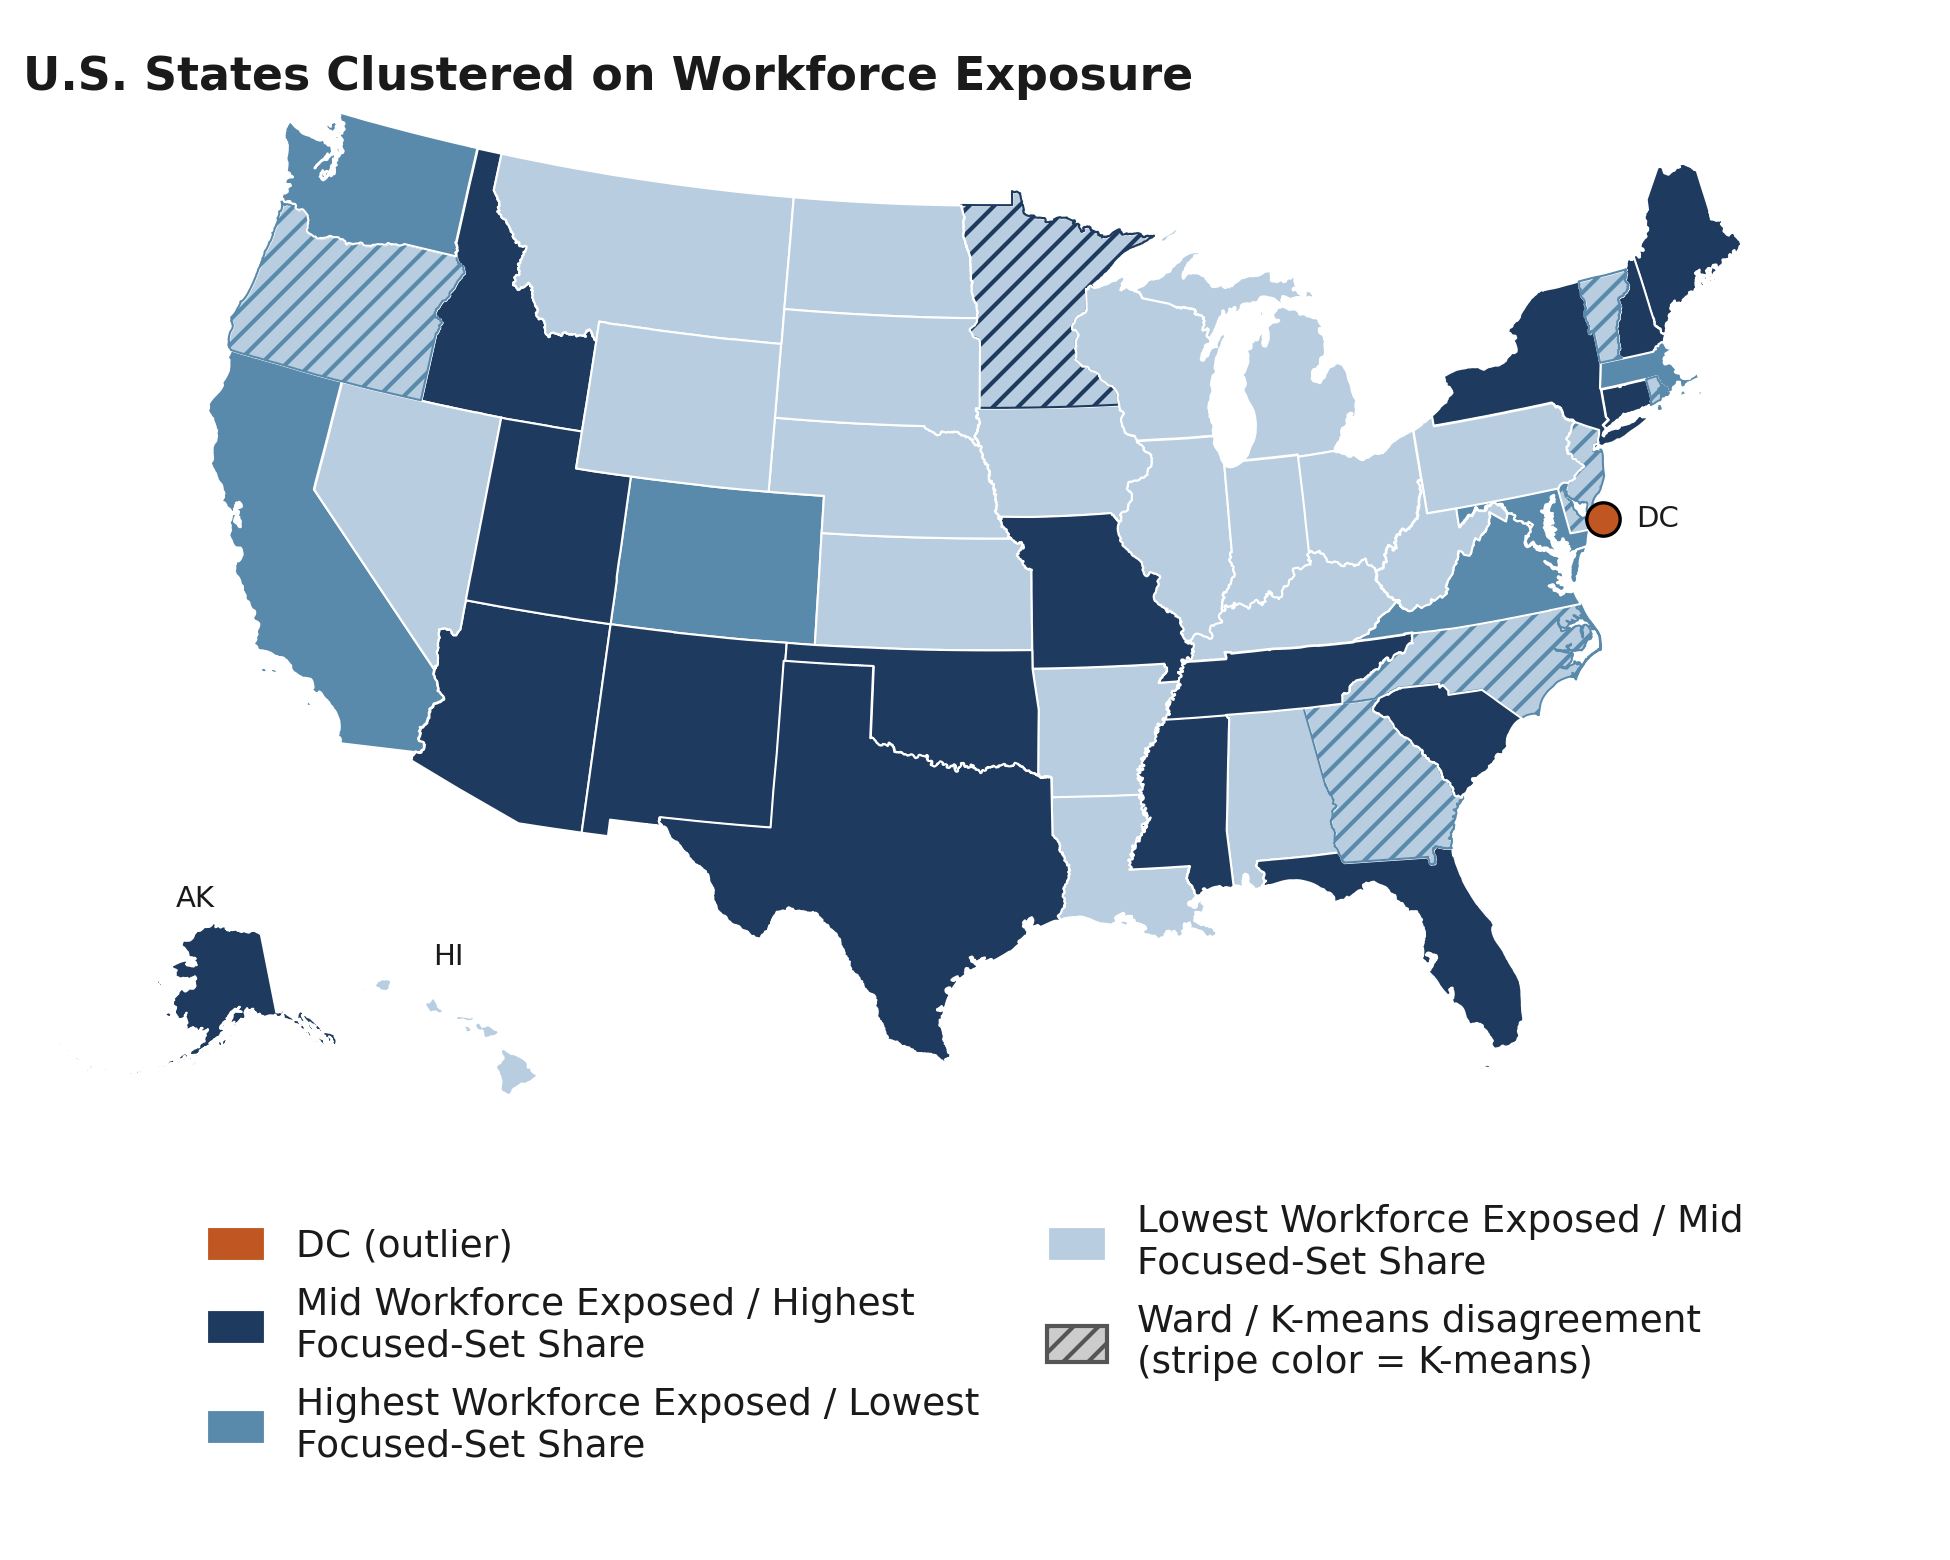
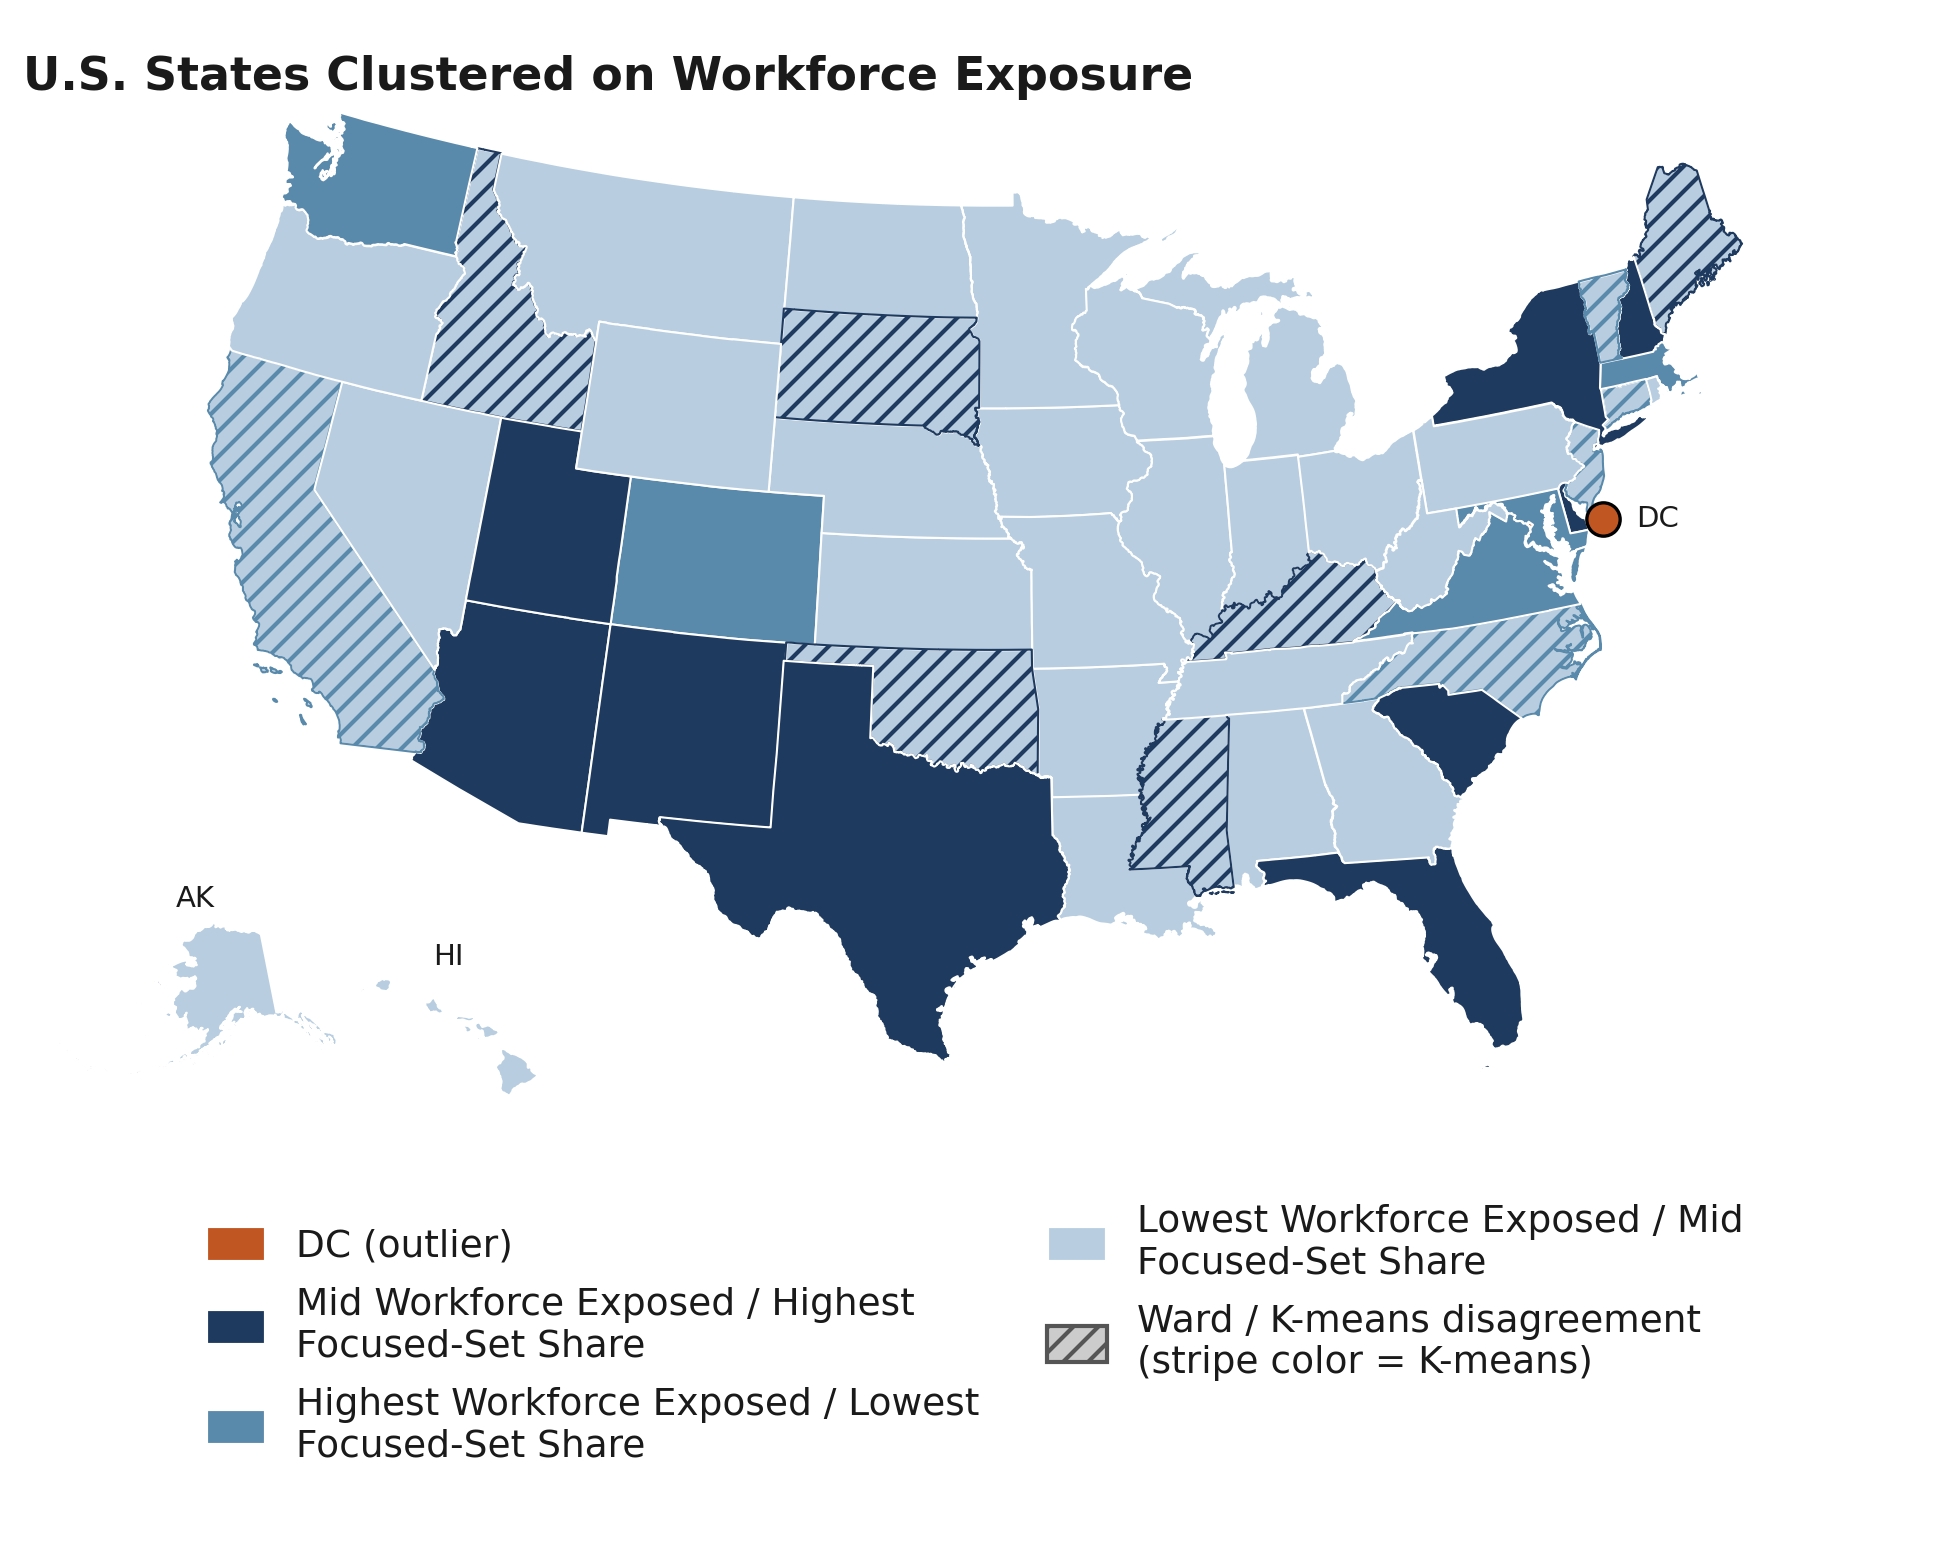
part_3: rerun state_clusters_map against fresh focused-set + pin k=3
When the SKA-gated focused set updated from 38 → 44 occs, the per-state
focused_share_pct feature shifted, which moved several states between
Ward clusters. The committed map was out of sync with the appendix
state_clusters_each_ranked bars after the focused-set fix.

Two changes:
1. Apply the same k=3 pin used in the appendix so cluster count can't
   drift to k=4 on future feature-value shifts.
2. Regenerate the map so its cluster assignments line up with the
   appendix bars and reflect the current n=44 focused set.

diff --git a/analysis/paper/results/part_3/run.py b/analysis/paper/results/part_3/run.py
@@ -1080,7 +1080,18 @@ def build_state_clusters_map(results: Path, figures: Path) -> None:
     from sklearn.preprocessing import StandardScaler
     from scipy.cluster.hierarchy import linkage, fcluster
 
-    pkg = compute_clusters()
+    # Pin k=3 so the cluster count stays locked even when upstream feature
+    # values shift (e.g. when the SKA-gated focused set drives a new
+    # focused_share_pct distribution). Same pin used by the appendix
+    # state_clusters_each_ranked chart, so the two stay in sync.
+    K_PIN = 3
+    import analysis.exploratory.deepdive_state_clusters.run as _dsc_mod
+    _orig_k_min, _orig_k_max = _dsc_mod.K_MIN, _dsc_mod.K_MAX
+    _dsc_mod.K_MIN = _dsc_mod.K_MAX = K_PIN
+    try:
+        pkg = compute_clusters()
+    finally:
+        _dsc_mod.K_MIN, _dsc_mod.K_MAX = _orig_k_min, _orig_k_max
     state_df = pkg["state_df"]
     cluster_names = pkg["cluster_names"]
     cluster_color = pkg["cluster_color"]
@@ -1091,7 +1102,7 @@ def build_state_clusters_map(results: Path, figures: Path) -> None:
     sub_in = raw[~raw["geo"].isin(OUTLIER_GEOS)].copy().reset_index(drop=True)
     Xz = StandardScaler().fit_transform(sub_in[CLUSTER_FEATURES].to_numpy(dtype=float))
     Z = linkage(Xz, method="ward")
-    k_, _ = _pick_k_from_linkage(Z, K_MIN, K_MAX)
+    k_, _ = _pick_k_from_linkage(Z, K_PIN, K_PIN)
     ward_lab = fcluster(Z, t=k_, criterion="maxclust")
     km_lab = KMeans(n_clusters=k_, n_init=20, random_state=42).fit_predict(Xz) + 1
     aligned = np.zeros_like(km_lab)
